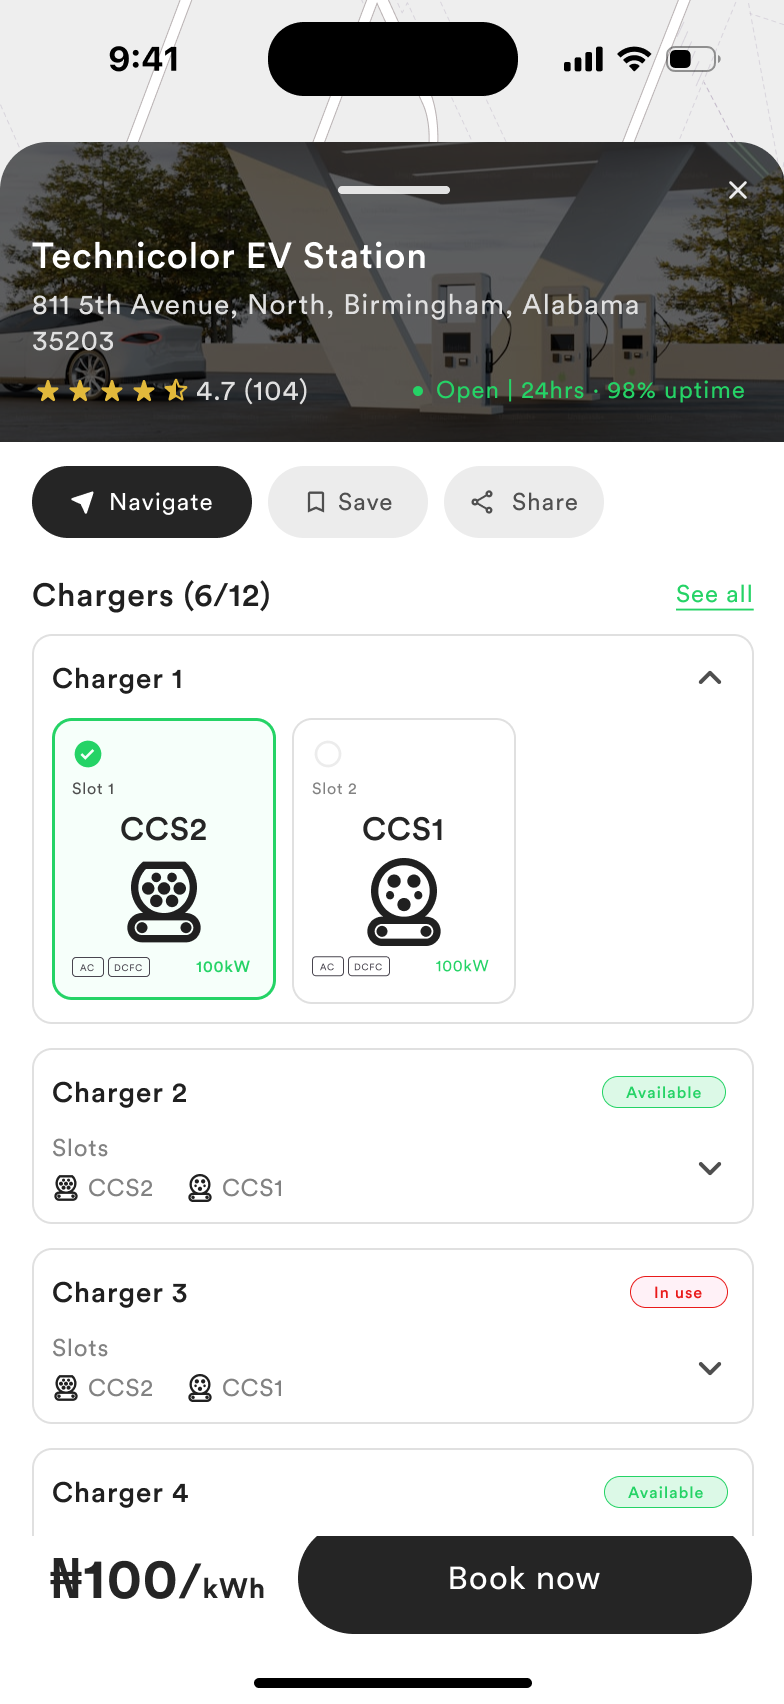
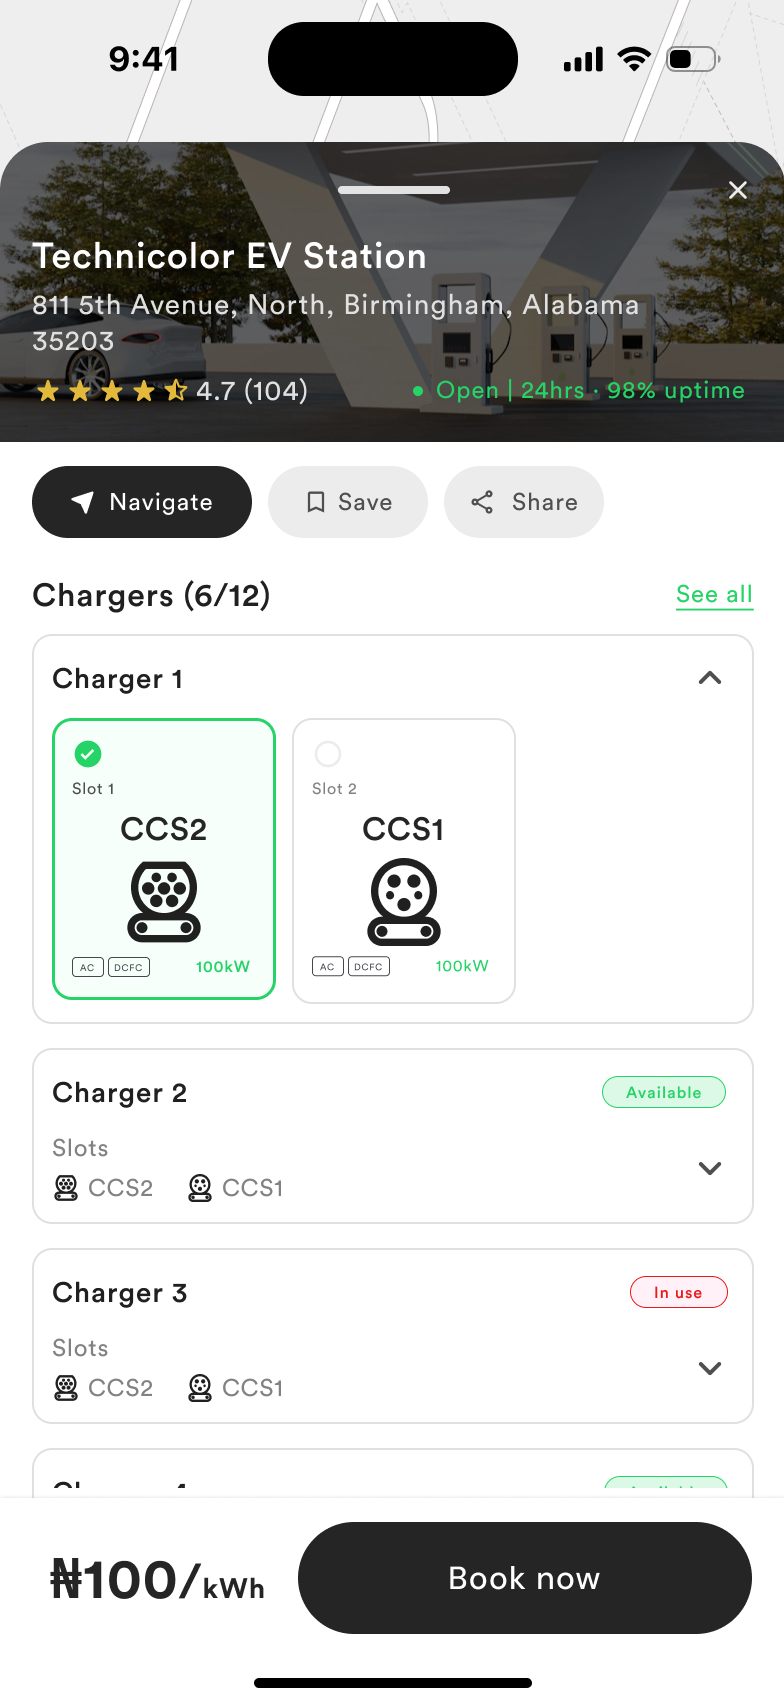
Draft: SureChargeX new hero, role back to Product designer, full station screens

Changed region(s): [[0.398, 0.8709, 0.949, 0.902], [0.0918, 0.8709, 0.2143, 0.902]]

diff --git a/content/case-studies.ts b/content/case-studies.ts
@@ -144,14 +144,14 @@ export const caseStudies: CaseStudy[] = [
     summary:
       "A mobile app and website for Ashipa Electric that let EV drivers find a station, reserve a charging slot, pay and charge in one journey, with every cost shown before they commit.",
     facts: [
-      { label: "Role", value: "Sole product designer" },
+      { label: "Role", value: "Product designer" },
       { label: "Timeline", value: "6 months" },
       { label: "Platform", value: "Mobile & Web" },
     ],
     status: "Live",
     website: "https://surecharge.us/",
     hero: {
-      src: "/images/case-studies/surechargex/hero-v2.png",
+      src: "/images/case-studies/surechargex/hero-v3.png",
       width: 1328,
       height: 664,
       displayWidth: 664,
@@ -226,18 +226,18 @@ export const caseStudies: CaseStudy[] = [
         image: {
           src: "/images/case-studies/surechargex/screens/station-detail-annotated.png",
           width: 784,
-          height: 2218,
-          alt: "The Technicolor EV Station detail screen: open hours and uptime, chargers available, each charger’s slots with connector and power, Available and In use statuses, amenities with the parking fee, and the price with a Book now button.",
+          height: 2834,
+          alt: "The Technicolor EV Station detail screen: open hours and uptime, chargers available, each charger’s slots with connector and power, Available and In use statuses, amenities with the parking fee, photos and reviews, and the price with a Book now button.",
         },
         markers: [
-          { x: 51, y: 17.4, title: "Hours of availability", text: "“Open | 24hrs” sits in the header." },
-          { x: 90, y: 20.4, title: "Uptime", text: "“98% uptime” sits next to the hours, so drivers can judge reliability before the trip." },
-          { x: 39, y: 26.7, title: "Real-time availability", text: "Chargers available out of the total, “6/12”." },
-          { x: 67.5, y: 34.6, title: "Connector types", text: "Each slot names the connector it supports." },
-          { x: 67.5, y: 38.3, title: "Power", text: "Each slot shows its charging power." },
-          { x: 69, y: 58.2, title: "Real-time status", text: "Every charger is marked Available or In use." },
-          { x: 79, y: 79.6, title: "Extra costs, displayed", text: "The parking fee and amenities, before booking." },
-          { x: 22, y: 90.6, title: "Real-time pricing", text: "The price per kWh sits on the booking bar." },
+          { x: 51, y: 13.6, title: "Hours of availability", text: "“Open | 24hrs” sits in the header." },
+          { x: 90, y: 16.0, title: "Uptime", text: "“98% uptime” sits next to the hours, so drivers can judge reliability before the trip." },
+          { x: 39, y: 20.9, title: "Real-time availability", text: "Chargers available out of the total, “6/12”." },
+          { x: 67.5, y: 27.1, title: "Connector types", text: "Each slot names the connector it supports." },
+          { x: 67.5, y: 30.0, title: "Power", text: "Each slot shows its charging power." },
+          { x: 69, y: 45.5, title: "Real-time status", text: "Every charger is marked Available or In use." },
+          { x: 79, y: 62.3, title: "Extra costs, displayed", text: "The parking fee and amenities, before booking." },
+          { x: 36.5, y: 95.8, title: "Real-time pricing", text: "The price per kWh sits on the booking bar." },
         ],
       },
       {
